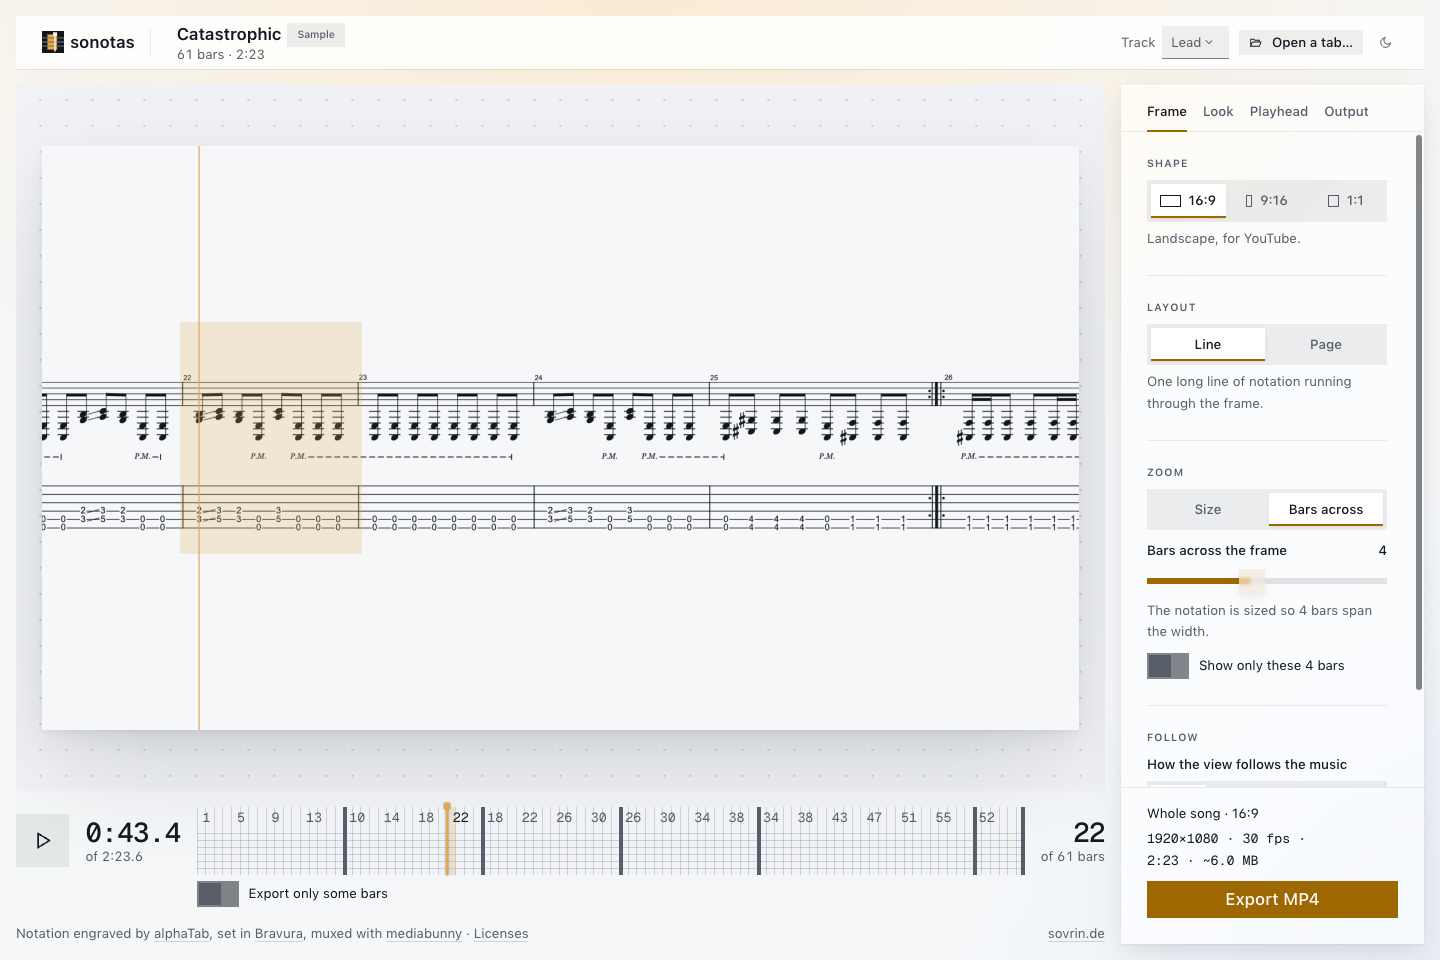
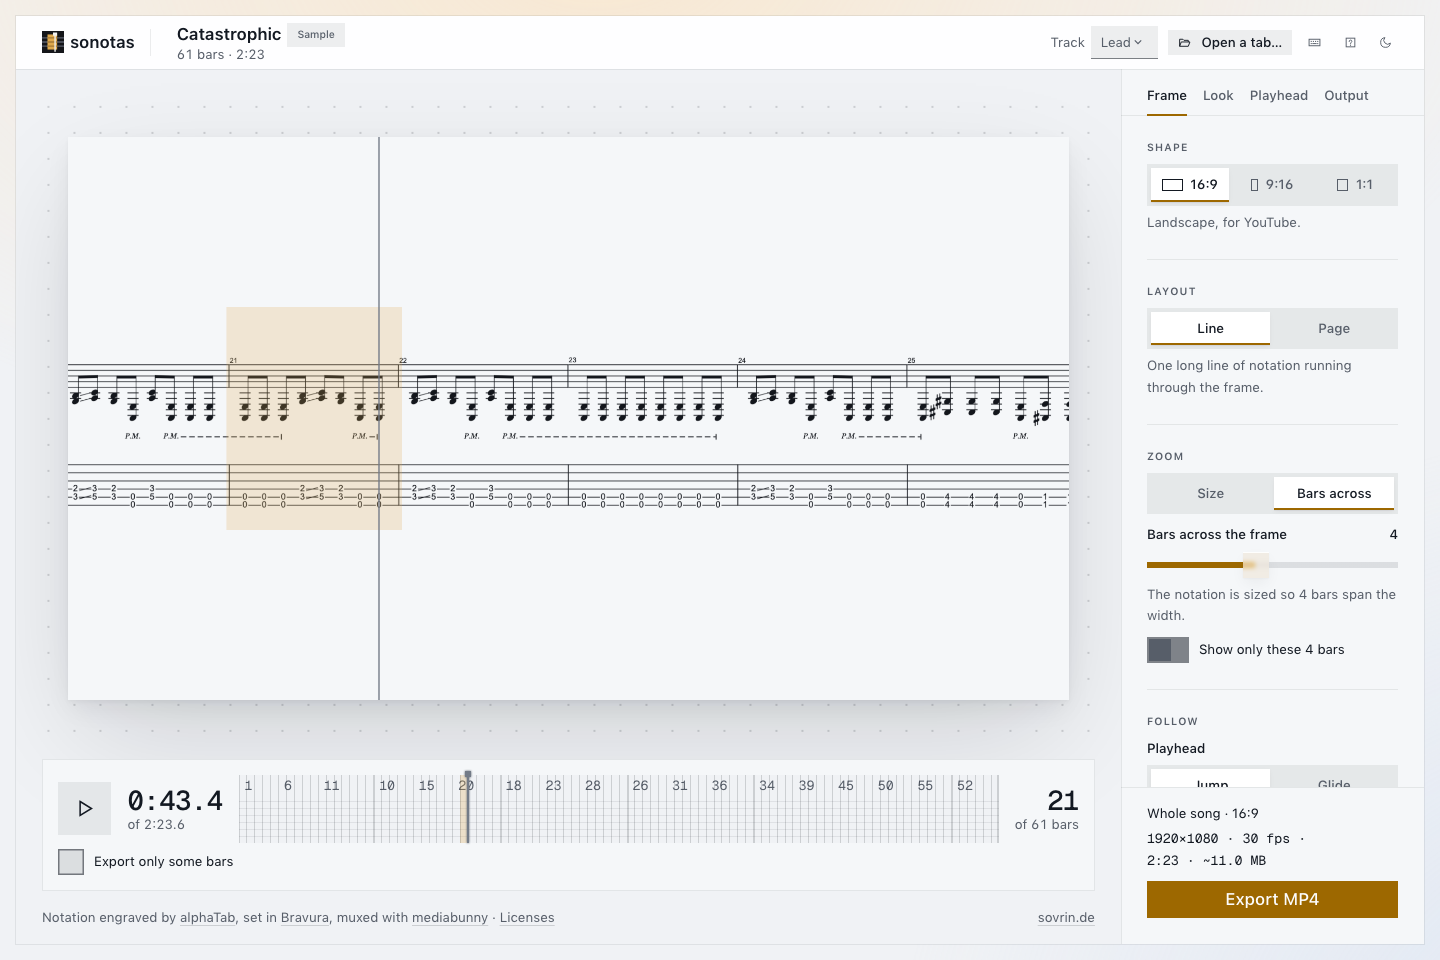
docs(readme): script the README screenshots
- `pnpm screenshots` starts a dev server, sets the demo up (bar 22, both
  staves, four bars across) and shoots it in the dark and light themes
- runs in Playwright's headless shell, so no Google services are contacted;
  playwright-core pinned to 1.63.0 to match the cached shell build
- fresh screenshots for the current UI

diff --git a/scripts/screenshots.ts b/scripts/screenshots.ts
@@ -1,0 +1,68 @@
+// Refresh the README screenshots (docs/screenshot-{dark,light}.png): the demo
+// tab at bar 22, both staves, four bars across, in each theme. Runs in
+// Playwright's headless shell, which has no Google services to call home (once:
+// `pnpm exec playwright-core install chromium-headless-shell`). Starts a dev
+// server unless SONOTAS_URL points at a running one.
+import { spawn, type ChildProcess } from 'node:child_process'
+import { chromium, type Page } from 'playwright-core'
+
+const PORT = 3123
+const SEEK = 0.302 // fraction of the song: 0:43 of 2:23, bar 22
+
+let server: ChildProcess | undefined
+let url = process.env.SONOTAS_URL
+if (!url) {
+  url = `http://localhost:${PORT}`
+  // Own process group, so stopping it takes nuxt down with pnpm.
+  server = spawn('pnpm', ['exec', 'nuxt', 'dev', '--port', String(PORT)], { stdio: 'ignore', detached: true })
+  const stop = () => server?.pid && process.kill(-server.pid)
+  process.on('exit', stop)
+  process.on('SIGINT', () => process.exit(130))
+  await waitFor(url)
+}
+
+const browser = await chromium.launch()
+try {
+  const page = await browser.newPage({ viewport: { width: 1440, height: 960 } })
+  await page.goto(url)
+  // The dev server's DevTools button isn't part of the app.
+  await page.addStyleTag({ content: '#nuxt-devtools-container { display: none !important }' })
+  await settle(page)
+
+  await page.getByRole('tab', { name: 'Look' }).click()
+  await page.getByRole('radio', { name: 'Both' }).check({ force: true })
+  await page.getByRole('tab', { name: 'Frame' }).click()
+  await page.getByRole('radio', { name: 'Bars across' }).check({ force: true })
+  await settle(page)
+
+  const strip = (await page.getByRole('slider', { name: 'Song position' }).boundingBox())!
+  await page.mouse.click(strip.x + strip.width * SEEK, strip.y + strip.height / 2)
+  await settle(page)
+  await page.screenshot({ path: 'docs/screenshot-dark.png' })
+
+  await page.getByRole('button', { name: 'Switch to light theme' }).click()
+  await page.getByRole('tab', { name: 'Look' }).click()
+  await page.getByRole('radio', { name: /^Light/ }).check({ force: true })
+  await page.getByRole('tab', { name: 'Frame' }).click()
+  await settle(page)
+  await page.screenshot({ path: 'docs/screenshot-light.png' })
+  console.log('Wrote docs/screenshot-dark.png and docs/screenshot-light.png')
+} finally {
+  await browser.close()
+}
+process.exit() // also stops the dev server
+
+async function waitFor(target: string) {
+  for (let i = 0; i < 120; i++) {
+    if (await fetch(target).then(r => r.ok, () => false)) return
+    await new Promise(r => setTimeout(r, 1000))
+  }
+  throw new Error(`No dev server at ${target} after 2 minutes`)
+}
+
+// The sheet rebuilds and the size estimate reruns after a change; shoot once
+// the estimate is back.
+async function settle(page: Page) {
+  await page.waitForTimeout(500)
+  await page.getByText(/~[\d.]+ MB/).waitFor({ timeout: 60_000 })
+}

diff --git a/README.md b/README.md
@@ -91,6 +91,7 @@ Other scripts:
 | `pnpm generate`               | Prerender the static site into `.output/public` |
 | `pnpm preview`                | Serve the production build locally              |
 | `pnpm --filter renderer test` | Run the renderer unit tests                     |
+| `pnpm screenshots`            | Refresh the README screenshots in `docs/`       |
 
 ## Self-hosting with Docker
 
